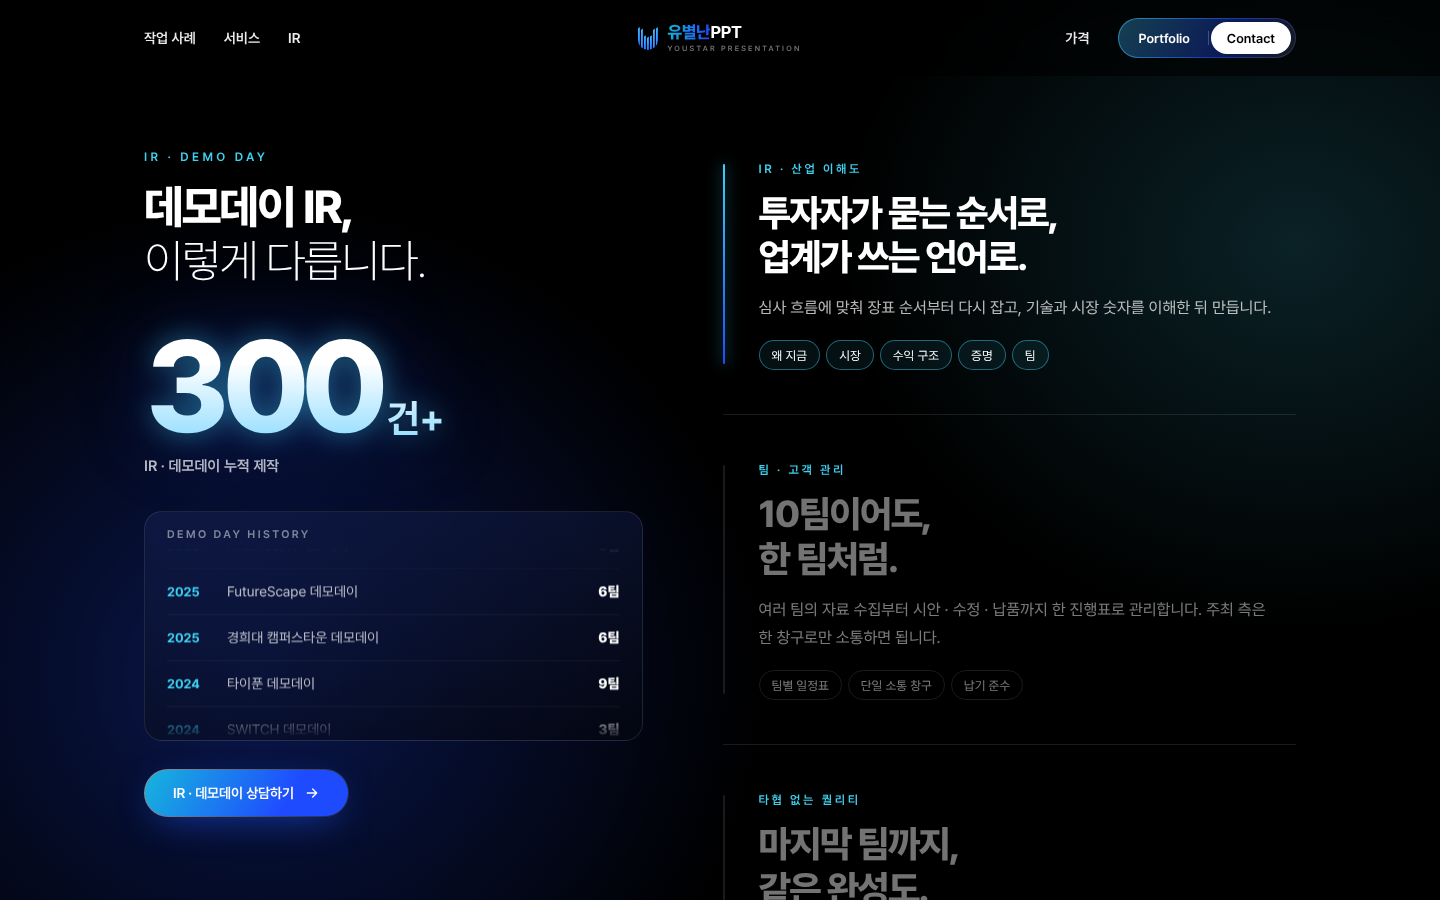
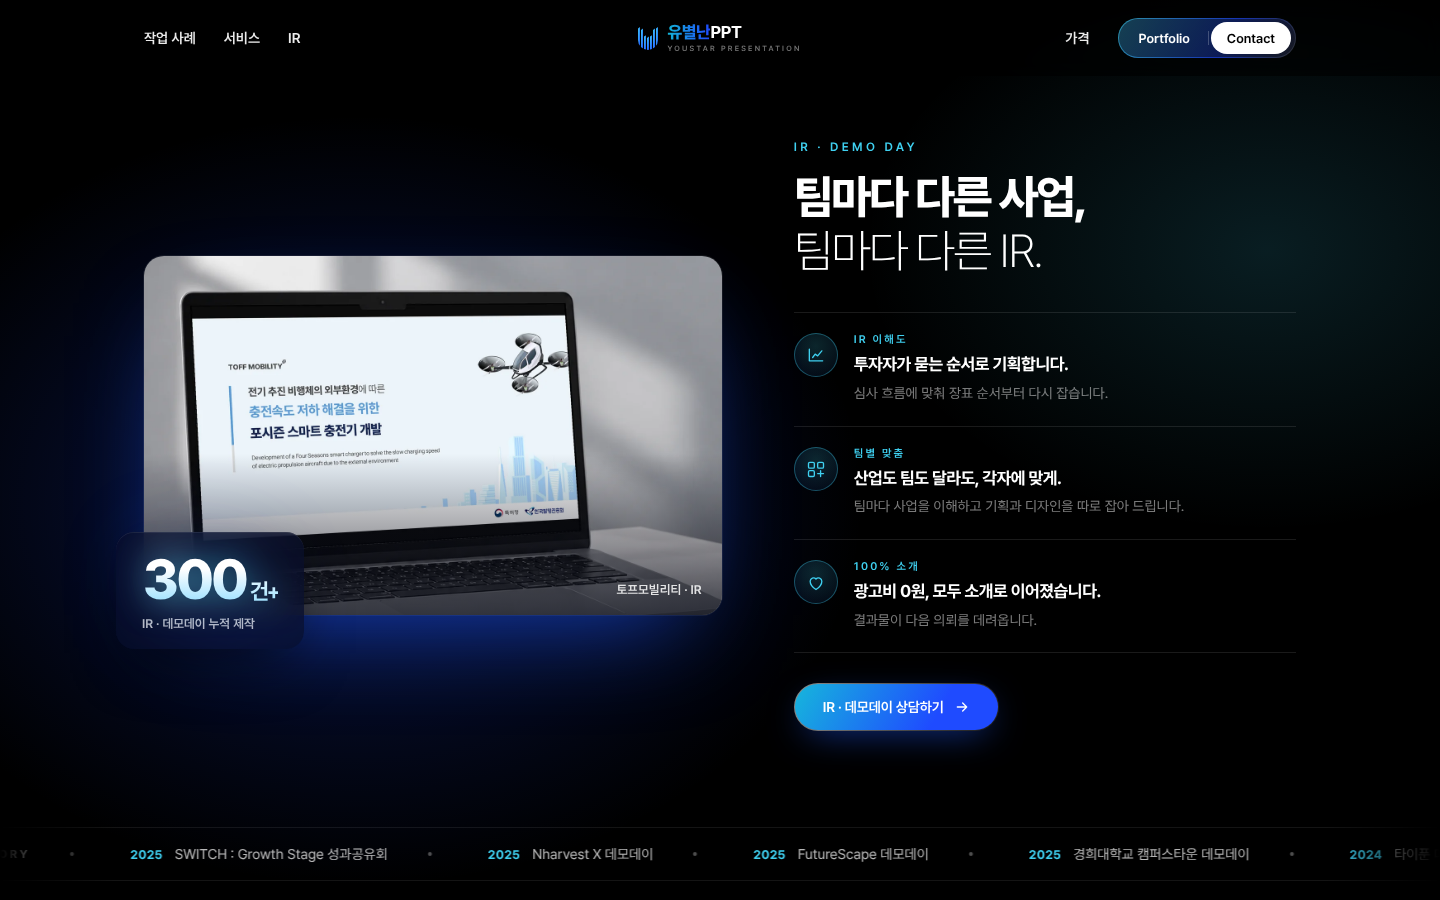
v2 IR: laptop mockup visual with 300+ badge, short three points, borderless history strip
- 왼쪽: IR 노트북 목업 4종이 3.6초마다 부드럽게 바뀜, 유리 배지 300건+ (0부터 올라감, 은은한 네온)
- 오른쪽: "팀마다 다른 사업, / 팀마다 다른 IR." + 아이콘 세 줄(IR 이해도 · 팀별 맞춤 · 100% 소개), 작은 글자
- 아래: 둥근 테두리 없는 데모데이 이력 띠(팀 수 제외), 가로로 흐름

Claude-Session: https://claude.ai/code/session_01NURhbB6Mq8R8WnaczfYj5a

diff --git a/redesign/v2/index.html b/redesign/v2/index.html
@@ -188,59 +188,49 @@ a{color:inherit;text-decoration:none}
 @keyframes statsbeam{50%{--bx:70%}}
 @media (prefers-reduced-motion:reduce){.neon-btn,.neon-txt,.stats::before{animation:none}}
 
-/* 다섯 번째: IR · 데모데이 — 왼쪽 큰 숫자 + 이력, 오른쪽 세 가지가 하나씩 떠오른다 */
-.irx{position:relative;padding:150px 0;isolation:isolate;overflow-x:clip}
-.irx::before{content:"";position:absolute;inset:0;z-index:-1;background:radial-gradient(ellipse 50% 55% at 18% 55%,rgba(31,75,255,.3),transparent 70%),radial-gradient(ellipse 45% 45% at 90% 20%,rgba(63,208,240,.16),transparent 70%)}
-.irx .wrap{display:grid;grid-template-columns:minmax(0,1fr) minmax(0,1.15fr);gap:80px;align-items:start}
-.irx__left{position:sticky;top:120px}
+/* 다섯 번째: IR · 데모데이 — 왼쪽 노트북 목업(장표가 바뀜) + 300건+ 배지, 오른쪽 짧은 세 줄, 아래 이력 띠 */
+.irx{position:relative;padding:140px 0 120px;isolation:isolate;overflow-x:clip}
+.irx::before{content:"";position:absolute;inset:0;z-index:-1;background:radial-gradient(ellipse 50% 55% at 25% 50%,rgba(31,75,255,.28),transparent 70%),radial-gradient(ellipse 40% 40% at 88% 25%,rgba(63,208,240,.14),transparent 70%)}
+.irx .wrap{display:grid;grid-template-columns:minmax(0,1.15fr) minmax(0,1fr);gap:72px;align-items:center}
+.lap{position:relative}
+.lap__frame{position:relative;aspect-ratio:1400/868;border-radius:20px;overflow:hidden;box-shadow:0 40px 100px -40px rgba(31,90,255,.7),0 0 0 1px rgba(255,255,255,.08)}
+.lap__frame img{position:absolute;inset:0;width:100%;height:100%;object-fit:cover;opacity:0;transform:scale(1.03);transition:opacity 1.2s var(--ease),transform 6s linear}
+.lap__frame img.on{opacity:1;transform:scale(1)}
+.lap__frame::after{content:"";position:absolute;inset:0;background:linear-gradient(180deg,transparent 55%,rgba(3,6,18,.75));pointer-events:none}
+.lap__name{position:absolute;right:20px;bottom:18px;z-index:2;font-size:12.5px;font-weight:600;color:rgba(255,255,255,.85);transition:opacity .4s}
+.badge300{position:absolute;left:-28px;bottom:-34px;z-index:3;padding:20px 26px 18px;border-radius:18px;background:rgba(8,14,40,.72);backdrop-filter:blur(16px);-webkit-backdrop-filter:blur(16px);box-shadow:0 24px 60px -20px rgba(0,0,0,.9),inset 0 1px 0 rgba(255,255,255,.08)}
+.badge300 b{display:block;font-size:56px;font-weight:800;letter-spacing:-.05em;line-height:1;background:linear-gradient(180deg,#fff 30%,#8fdcff);-webkit-background-clip:text;background-clip:text;color:transparent;font-variant-numeric:tabular-nums}
+.badge300 b em{font-style:normal;font-size:.4em;font-weight:700;margin-left:4px}
+.badge300 span{display:block;margin-top:8px;font-size:12.5px;font-weight:600;color:var(--ink-2)}
 .irx small.k{display:block;font-size:12px;font-weight:600;letter-spacing:.28em;color:#3fd0f0;text-transform:uppercase}
 .irx h2{margin:16px 0 0;font-size:clamp(30px,3.2vw,46px);line-height:1.18;letter-spacing:-.045em}
 .irx h2 b{font-weight:800}.irx h2 span{font-weight:250}
-.irx__big{display:flex;align-items:baseline;gap:8px;margin:40px 0 0}
-.irx__big b{font-size:clamp(84px,9vw,136px);font-weight:800;letter-spacing:-.06em;line-height:.9;background:linear-gradient(180deg,#fff 30%,#8fdcff);-webkit-background-clip:text;background-clip:text;color:transparent;font-variant-numeric:tabular-nums}
-.irx__big b em{font-style:normal;font-size:.3em;font-weight:700;letter-spacing:-.02em;margin-left:6px}
-.irx__big span{font-size:15px;font-weight:600;color:var(--ink-2)}
-.hbox{position:relative;height:230px;margin-top:36px;border-radius:18px;border:1px solid rgba(255,255,255,.1);background:linear-gradient(170deg,rgba(20,32,80,.55),rgba(5,7,15,.6));overflow:hidden}
-.hbox__cap{position:absolute;left:22px;top:16px;z-index:1;font-size:11px;font-weight:600;letter-spacing:.22em;color:var(--ink-3)}
-.hist{position:absolute;inset:36px 0 0;-webkit-mask:linear-gradient(transparent,#000 18%,#000 82%,transparent);mask:linear-gradient(transparent,#000 18%,#000 82%,transparent)}
-.hist ul{margin:0;padding:0 22px;list-style:none;animation:histup 20s linear infinite}
-.hbox:hover .hist ul{animation-play-state:paused}
-@keyframes histup{to{transform:translateY(-50%)}}
-.hist li{display:grid;grid-template-columns:48px 1fr auto;gap:12px;align-items:center;height:46px;border-bottom:1px solid rgba(255,255,255,.07);font-size:14px;color:var(--ink-2);white-space:nowrap}
-.hist li span{overflow:hidden;text-overflow:ellipsis}
-.hist li b{font-size:13px;color:#3fd0f0;font-weight:700}
-.hist li em{font-style:normal;font-weight:800;color:#fff}
-.irx__left .gbtn{margin-top:28px;height:48px;font-size:14px}
-.pts{margin:0;padding:0;list-style:none}
-.pt{position:relative;padding:44px 0 44px 36px;border-bottom:1px solid rgba(255,255,255,.1);opacity:0;transform:translateX(60px);transition:opacity 1s var(--ease),transform 1s var(--ease)}
-.pt:first-child{padding-top:8px}
+.pts{margin:34px 0 0;padding:0;list-style:none;border-top:1px solid rgba(255,255,255,.1)}
+.pt{display:grid;grid-template-columns:44px 1fr;gap:16px;align-items:start;padding:20px 0;border-bottom:1px solid rgba(255,255,255,.1);opacity:0;transform:translateY(14px);transition:opacity .9s var(--ease),transform .9s var(--ease)}
 .pts.is-in .pt{opacity:1;transform:none}
-.pts.is-in .pt:nth-child(2){transition-delay:.25s}.pts.is-in .pt:nth-child(3){transition-delay:.5s}
-.pt::before{content:"";position:absolute;left:0;top:50px;bottom:50px;width:2px;border-radius:2px;background:rgba(255,255,255,.1)}
-.pt:first-child::before{top:14px}
-.pt::after{content:"";position:absolute;left:0;top:50px;bottom:50px;width:2px;border-radius:2px;background:linear-gradient(#3fd0f0,#1f4bff);box-shadow:0 0 14px rgba(63,208,240,.8);transform:scaleY(0);transform-origin:top;transition:transform .9s var(--ease)}
-.pt:first-child::after{top:14px}
-.pt.is-act::after{transform:scaleY(1)}
-.pt i.t{font-style:normal;font-size:12px;font-weight:600;letter-spacing:.22em;color:#3fd0f0}
-.pt h3{margin:14px 0 0;font-size:clamp(26px,2.6vw,38px);font-weight:800;letter-spacing:-.045em;line-height:1.2;color:rgba(255,255,255,.45);transition:color .6s}
-.pt.is-act h3{color:#fff}
-.pt p{margin:14px 0 0;font-size:16px;line-height:1.75;color:var(--ink-3);transition:color .6s;max-width:520px}
-.pt.is-act p{color:var(--ink-2)}
-.pt ul{display:flex;flex-wrap:wrap;gap:6px;margin:18px 0 0;padding:0;list-style:none}
-.pt ul li{height:30px;display:inline-flex;align-items:center;padding:0 12px;border-radius:999px;font-size:12.5px;color:var(--ink-3);border:1px solid rgba(255,255,255,.1);transition:all .6s var(--ease)}
-.pt.is-act ul li{color:#fff;border-color:rgba(63,208,240,.45);background:rgba(63,208,240,.08)}
+.pts.is-in .pt:nth-child(2){transition-delay:.18s}.pts.is-in .pt:nth-child(3){transition-delay:.36s}
+.pt__ic{width:44px;height:44px;border-radius:50%;display:grid;place-items:center;color:#3fd0f0;background:radial-gradient(circle at 50% 30%,rgba(63,208,240,.18),rgba(31,75,255,.06));box-shadow:inset 0 0 0 1px rgba(63,208,240,.35)}
+.pt__ic svg{width:20px;height:20px}
+.pt i.t{display:block;font-style:normal;font-size:11px;font-weight:600;letter-spacing:.2em;color:#3fd0f0}
+.pt h3{margin:6px 0 0;font-size:17px;font-weight:700;letter-spacing:-.025em;line-height:1.45}
+.pt p{margin:5px 0 0;font-size:14px;line-height:1.7;color:var(--ink-3)}
+.irx .gbtn{margin-top:30px;height:48px;font-size:14px}
+/* 이력 띠: 둥근 테두리 없이 위아래 가는 선만 */
+.hstrip{position:relative;margin-top:96px;padding:18px 0;border-top:1px solid rgba(255,255,255,.08);border-bottom:1px solid rgba(255,255,255,.08);overflow:hidden;-webkit-mask:linear-gradient(90deg,transparent,#000 8%,#000 92%,transparent);mask:linear-gradient(90deg,transparent,#000 8%,#000 92%,transparent)}
+.hstrip__row{display:flex;width:max-content;animation:wallmove 60s linear infinite}
+.hstrip:hover .hstrip__row{animation-play-state:paused}
+.hstrip__row span{display:inline-flex;align-items:center;gap:12px;padding:0 28px;font-size:14px;color:var(--ink-2);white-space:nowrap}
+.hstrip__row span b{font-size:12.5px;color:#3fd0f0;font-weight:700;letter-spacing:.02em}
+.hstrip__row span::after{content:"";width:4px;height:4px;border-radius:50%;background:rgba(255,255,255,.3);margin-left:28px}
+.hstrip__row span.cap{color:#fff;font-size:11.5px;font-weight:700;letter-spacing:.24em}
 @media (max-width:860px){
-  .irx{padding:96px 0}
-  .irx .wrap{grid-template-columns:1fr;gap:48px}
-  .irx__left{position:static}
-  .irx h2{font-size:clamp(30px,8.4vw,38px)}
-  .irx__big b{font-size:88px}
-  .hbox{height:200px}
-  .hist li{font-size:13px}
-  .irx__left .gbtn{width:100%}
-  .pt{padding:30px 0 30px 22px}
-  .pt h3{font-size:26px;color:#fff}
-  .pt p{font-size:14.5px;color:var(--ink-2)}
+  .irx{padding:96px 0 80px}
+  .irx .wrap{grid-template-columns:1fr;gap:72px}
+  .badge300{left:14px;bottom:-40px;padding:14px 18px}
+  .badge300 b{font-size:42px}
+  .irx h2{font-size:clamp(28px,8vw,36px)}
+  .irx .gbtn{width:100%}
+  .hstrip{margin-top:64px}
 }
 
 @media (max-width:860px){
@@ -336,20 +326,28 @@ a{color:inherit;text-decoration:none}
 </section>
 <section class="irx" id="ir">
   <div class="wrap">
-    <div class="irx__left">
+    <div class="lap">
+      <div class="lap__frame" id="lap">
+        <img class="on" src="assets/slides/lap-toff.webp" alt="토프모빌리티 IR 목업" data-n="토프모빌리티 · IR">
+        <img src="assets/slides/lap-refilly.webp" alt="리필리 IR 목업" data-n="리필리 · IR" loading="lazy">
+        <img src="assets/slides/lap-geogrid.webp" alt="지오그리드 IR 목업" data-n="지오그리드 · IR" loading="lazy">
+        <img src="assets/slides/lap-drbelab.webp" alt="닥터비랩 IR 목업" data-n="닥터비랩 · IR" loading="lazy">
+        <span class="lap__name" id="lapName">토프모빌리티 · IR</span>
+      </div>
+      <div class="badge300"><b class="neon-txt" id="n300" data-to="300">300<em>건+</em></b><span>IR · 데모데이 누적 제작</span></div>
+    </div>
+    <div>
       <small class="k">IR · Demo Day</small>
-      <h2><b>데모데이 IR,</b><br><span>이렇게 다릅니다.</span></h2>
-      <div class="irx__big"><b class="neon-txt">300<em>건+</em></b></div>
-      <div class="irx__big" style="margin-top:12px"><span>IR · 데모데이 누적 제작</span></div>
-      <div class="hbox"><span class="hbox__cap">DEMO DAY HISTORY</span><div class="hist" aria-label="데모데이 이력"><ul><li><b>2025</b><span>SWITCH : Growth Stage 성과공유회</span><em>7팀</em></li><li><b>2025</b><span>Nharvest X 데모데이</span><em>3팀</em></li><li><b>2025</b><span>FutureScape 데모데이</span><em>6팀</em></li><li><b>2025</b><span>경희대 캠퍼스타운 데모데이</span><em>6팀</em></li><li><b>2024</b><span>타이푼 데모데이</span><em>9팀</em></li><li><b>2024</b><span>SWITCH 데모데이</span><em>3팀</em></li><li><b>2024</b><span>경희대 캠퍼스타운 데모데이</span><em>10팀</em></li><li aria-hidden="true"><b>2025</b><span>SWITCH : Growth Stage 성과공유회</span><em>7팀</em></li><li aria-hidden="true"><b>2025</b><span>Nharvest X 데모데이</span><em>3팀</em></li><li aria-hidden="true"><b>2025</b><span>FutureScape 데모데이</span><em>6팀</em></li><li aria-hidden="true"><b>2025</b><span>경희대 캠퍼스타운 데모데이</span><em>6팀</em></li><li aria-hidden="true"><b>2024</b><span>타이푼 데모데이</span><em>9팀</em></li><li aria-hidden="true"><b>2024</b><span>SWITCH 데모데이</span><em>3팀</em></li><li aria-hidden="true"><b>2024</b><span>경희대 캠퍼스타운 데모데이</span><em>10팀</em></li></ul></div></div>
+      <h2><b>팀마다 다른 사업,</b><br><span>팀마다 다른 IR.</span></h2>
+      <ol class="pts" id="pts">
+        <li class="pt"><span class="pt__ic"><svg viewBox="0 0 24 24" fill="none" stroke="currentColor" stroke-width="1.6" stroke-linecap="round" stroke-linejoin="round"><path d="M4 19V5M4 19h16M8 15l3-4 3 2 5-6"/></svg></span><div><i class="t">IR 이해도</i><h3>투자자가 묻는 순서로 기획합니다.</h3><p>심사 흐름에 맞춰 장표 순서부터 다시 잡습니다.</p></div></li>
+        <li class="pt"><span class="pt__ic"><svg viewBox="0 0 24 24" fill="none" stroke="currentColor" stroke-width="1.6" stroke-linecap="round" stroke-linejoin="round"><rect x="3" y="4" width="7" height="7" rx="1.5"/><rect x="14" y="4" width="7" height="7" rx="1.5"/><rect x="3" y="14" width="7" height="7" rx="1.5"/><path d="M14 17.5h7M17.5 14v7"/></svg></span><div><i class="t">팀별 맞춤</i><h3>산업도 팀도 달라도, 각자에 맞게.</h3><p>팀마다 사업을 이해하고 기획과 디자인을 따로 잡아 드립니다.</p></div></li>
+        <li class="pt"><span class="pt__ic"><svg viewBox="0 0 24 24" fill="none" stroke="currentColor" stroke-width="1.6" stroke-linecap="round" stroke-linejoin="round"><path d="M12 21s-7-4.5-7-10a4 4 0 0 1 7-2.6A4 4 0 0 1 19 11c0 5.5-7 10-7 10z"/></svg></span><div><i class="t">100% 소개</i><h3>광고비 0원, 모두 소개로 이어졌습니다.</h3><p>결과물이 다음 의뢰를 데려옵니다.</p></div></li>
+      </ol>
       <a class="gbtn gbtn--fill" href="#contact">IR · 데모데이 상담하기<svg viewBox="0 0 24 24" fill="none" stroke="currentColor" stroke-width="2" stroke-linecap="round" stroke-linejoin="round"><path d="M5 12h14M13 6l6 6-6 6"/></svg></a>
     </div>
-    <ol class="pts" id="pts">
-      <li class="pt is-act"><i class="t">IR · 산업 이해도</i><h3>투자자가 묻는 순서로,<br>업계가 쓰는 언어로.</h3><p>심사 흐름에 맞춰 장표 순서부터 다시 잡고, 기술과 시장 숫자를 이해한 뒤 만듭니다.</p><ul><li>왜 지금</li><li>시장</li><li>수익 구조</li><li>증명</li><li>팀</li></ul></li>
-      <li class="pt"><i class="t">팀 · 고객 관리</i><h3>10팀이어도,<br>한 팀처럼.</h3><p>여러 팀의 자료 수집부터 시안 · 수정 · 납품까지 한 진행표로 관리합니다. 주최 측은 한 창구로만 소통하면 됩니다.</p><ul><li>팀별 일정표</li><li>단일 소통 창구</li><li>납기 준수</li></ul></li>
-      <li class="pt"><i class="t">타협 없는 퀄리티</i><h3>마지막 팀까지,<br>같은 완성도.</h3><p>팀 수가 많아도 템플릿을 돌려 쓰지 않습니다. 팀마다 다른 톤으로, 끝까지 같은 기준으로 검수합니다.</p><ul><li>팀별 톤앤매너</li><li>숫자 · 출처 대조</li><li>오탈자 검수</li><li>편집 가능한 원본</li></ul></li>
-    </ol>
   </div>
+  <div class="hstrip" aria-label="데모데이 이력"><div class="hstrip__row"><span class="cap">DEMO DAY HISTORY</span><span><b>2025</b>SWITCH : Growth Stage 성과공유회</span><span><b>2025</b>Nharvest X 데모데이</span><span><b>2025</b>FutureScape 데모데이</span><span><b>2025</b>경희대학교 캠퍼스타운 데모데이</span><span><b>2024</b>타이푼 데모데이</span><span><b>2024</b>SWITCH 데모데이</span><span><b>2024</b>경희대학교 캠퍼스타운 데모데이</span><span aria-hidden="true" class="cap">DEMO DAY HISTORY</span><span aria-hidden="true"><b>2025</b>SWITCH : Growth Stage 성과공유회</span><span aria-hidden="true"><b>2025</b>Nharvest X 데모데이</span><span aria-hidden="true"><b>2025</b>FutureScape 데모데이</span><span aria-hidden="true"><b>2025</b>경희대학교 캠퍼스타운 데모데이</span><span aria-hidden="true"><b>2024</b>타이푼 데모데이</span><span aria-hidden="true"><b>2024</b>SWITCH 데모데이</span><span aria-hidden="true"><b>2024</b>경희대학교 캠퍼스타운 데모데이</span></div></div>
 </section>
 </main>
 
@@ -590,16 +588,19 @@ a{color:inherit;text-decoration:none}
 </script>
 <script>
 (() => {
-  const pts = document.getElementById("pts"); if (!pts) return;
+  const pts = document.getElementById("pts"), lap = document.getElementById("lap"); if (!pts || !lap) return;
   const reduce = matchMedia("(prefers-reduced-motion: reduce)").matches;
-  const items = [...pts.querySelectorAll(".pt")]; let act = 0, timer = 0;
-  const set = (i) => { act = i; items.forEach((e, k) => e.classList.toggle("is-act", k === i)); };
-  items.forEach((e, i) => e.addEventListener("pointerenter", () => { set(i); clearInterval(timer); timer = 0; }));
-  pts.addEventListener("pointerleave", () => { if (!timer && !reduce) timer = setInterval(() => set((act + 1) % items.length), 3800); });
+  const imgs = [...lap.querySelectorAll("img")], nm = document.getElementById("lapName"), n300 = document.getElementById("n300");
+  let i = 0, timer = 0, counted = false;
+  const next = () => { imgs[i].classList.remove("on"); i = (i + 1) % imgs.length; imgs[i].classList.add("on"); nm.textContent = imgs[i].dataset.n; };
   new IntersectionObserver(([e]) => {
-    if (e.isIntersecting) { pts.classList.add("is-in"); if (!timer && !reduce) timer = setInterval(() => set((act + 1) % items.length), 3800); }
-    else if (timer) { clearInterval(timer); timer = 0; }
-  }, { threshold: .25 }).observe(pts);
+    if (e.isIntersecting) {
+      pts.classList.add("is-in");
+      if (!counted) { counted = true; const em = n300.querySelector("em").outerHTML, t0 = performance.now();
+        const st = (t) => { const k = reduce ? 1 : Math.min(1, (t - t0) / 1600); n300.innerHTML = Math.round(300 * (1 - Math.pow(1 - k, 3))) + em; if (k < 1) requestAnimationFrame(st); }; requestAnimationFrame(st); }
+      if (!timer && !reduce) timer = setInterval(next, 3600);
+    } else if (timer) { clearInterval(timer); timer = 0; }
+  }, { threshold: .3 }).observe(lap);
 })();
 </script>
 
